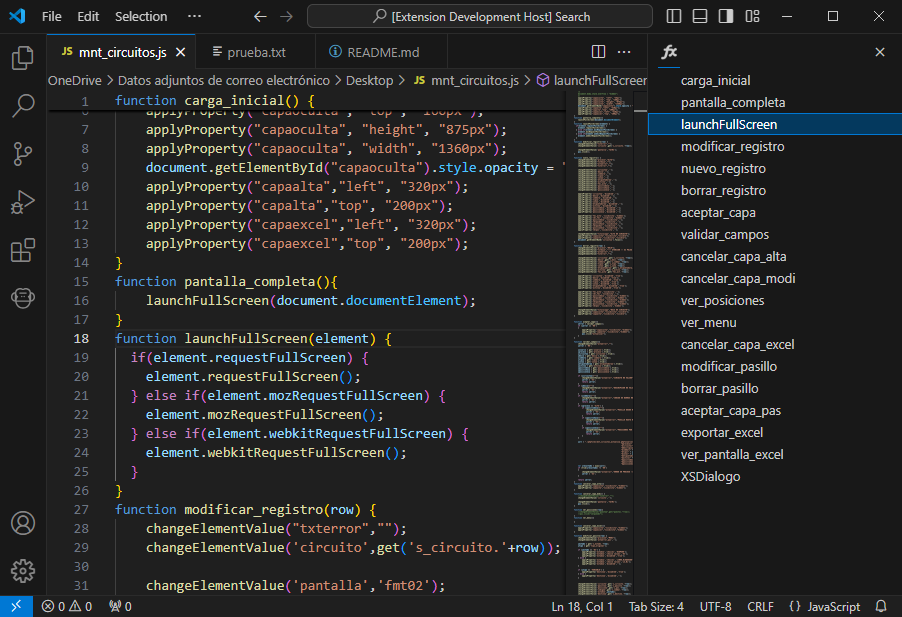
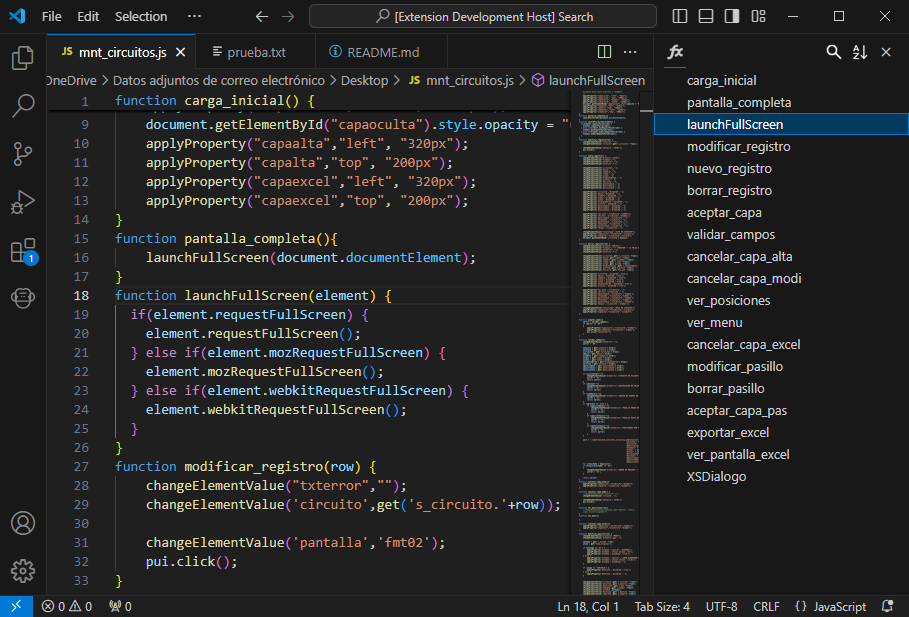
v0.0.3

diff --git a/src/extension.ts b/src/extension.ts
@@ -1,6 +1,9 @@
 
 import * as vscode from 'vscode';
 
+let isSorted = false;
+let filterText = '';
+
 export function activate(context: vscode.ExtensionContext) {
 
 	// Register commands
@@ -12,13 +15,38 @@ export function activate(context: vscode.ExtensionContext) {
 	const navigateToFunction = vscode.commands.registerCommand('sidebar-function-list.navigateToFunction', (range: vscode.Range) => {
         const editor = vscode.window.activeTextEditor;
         if (editor) {
-            editor.selection = new vscode.Selection(range.start, range.start); // Mueve el cursor al inicio de la función
-            editor.revealRange(range); // Revela el rango de la función en el editor
+            editor.selection = new vscode.Selection(range.start, range.start);
+            editor.revealRange(range);
         }
     });
 
+	const sortFunctionList = vscode.commands.registerCommand('sidebar-function-list.sortFunctionList', () => {
+		isSorted = !isSorted;
+		treeDataProvider.refresh();
+		vscode.window.showInformationMessage(`Function list ${isSorted ? 'sorted' : 'unsorted'}`);
+	});
+
+	const showFilterBox = vscode.commands.registerCommand('sidebar-function-list.showFilterBox', () => {
+        filterText = '';
+		treeDataProvider.refresh();
+		
+		const inputBox = vscode.window.createInputBox();
+        inputBox.prompt = 'Type to filter functions';
+        inputBox.onDidChangeValue(value => {
+            filterText = value;
+            treeDataProvider.refresh();
+        });
+        inputBox.onDidAccept(() => {
+            inputBox.hide();
+        });
+        inputBox.show();
+    });
+
+    context.subscriptions.push(showFilterBox);
+
     context.subscriptions.push(showFunctionList);
     context.subscriptions.push(navigateToFunction);
+	context.subscriptions.push(sortFunctionList);
 
 	// Register function list view
     const treeDataProvider = new FunctionListTreeDataProvider();
@@ -81,7 +109,18 @@ class FunctionListTreeDataProvider implements vscode.TreeDataProvider<FunctionIt
 
 		if (!element) {
 			const text = vscode.window.activeTextEditor.document.getText();
-			return Promise.resolve(this.getFunctions(text));
+			const functions = this.getFunctions(text);
+
+			//sort list
+			if (isSorted) {
+				functions.sort((a, b) => a.label.localeCompare(b.label));
+			}
+
+			//filter list
+			const filteredFunctions = functions.filter(func => func.label.toLowerCase().includes(filterText.toLowerCase()));
+
+
+			return Promise.resolve(filteredFunctions);
 		}
 
 		return Promise.resolve(element.children);

diff --git a/README.md b/README.md
@@ -14,6 +14,14 @@ Then you can see the function list at right sidebar. If you click one element yo
 
 ![Function List](resources/readme2.png)
 
+You can also sort alphabetically or search the list with the icons above or by using the commands 'Sort Function List' and 'Filter Functions' if you prefer.
+
+![Sort And Search Icons](resources/readme3.png)
+
+![Sort Function List](resources/readme4.png)
+
+![Filter Functions](resources/readme5.png)
+
 ## Supported languages
 
 At the moment, it works with all languages that use the 'function' keyword for function declaration, such as JavaScript or PHP.
@@ -27,6 +35,11 @@ Developed by Boniato, you can report issues at the [Github Repository](https://g
 [MIT License](LICENSE.md)
 
 ## Changelog
+
+### 0.0.3
+
+- Added alphabetical sorting
+- Added search filter
 
 ### 0.0.2
 

diff --git a/CHANGELOG.md b/CHANGELOG.md
@@ -1,12 +1,17 @@
 # Changelog
 
-### 0.0.2
+## 0.0.3
+
+- Added alphabetical sorting
+- Added search filter
+
+## 0.0.2
 
 - Changed minimum version to 1.64.0
 - Added marketplace icon
 - Function list icon changed
 - Command 'Show Function List' result in error fixed
 
-### 0.0.1
+## 0.0.1
 
 - Initial release
